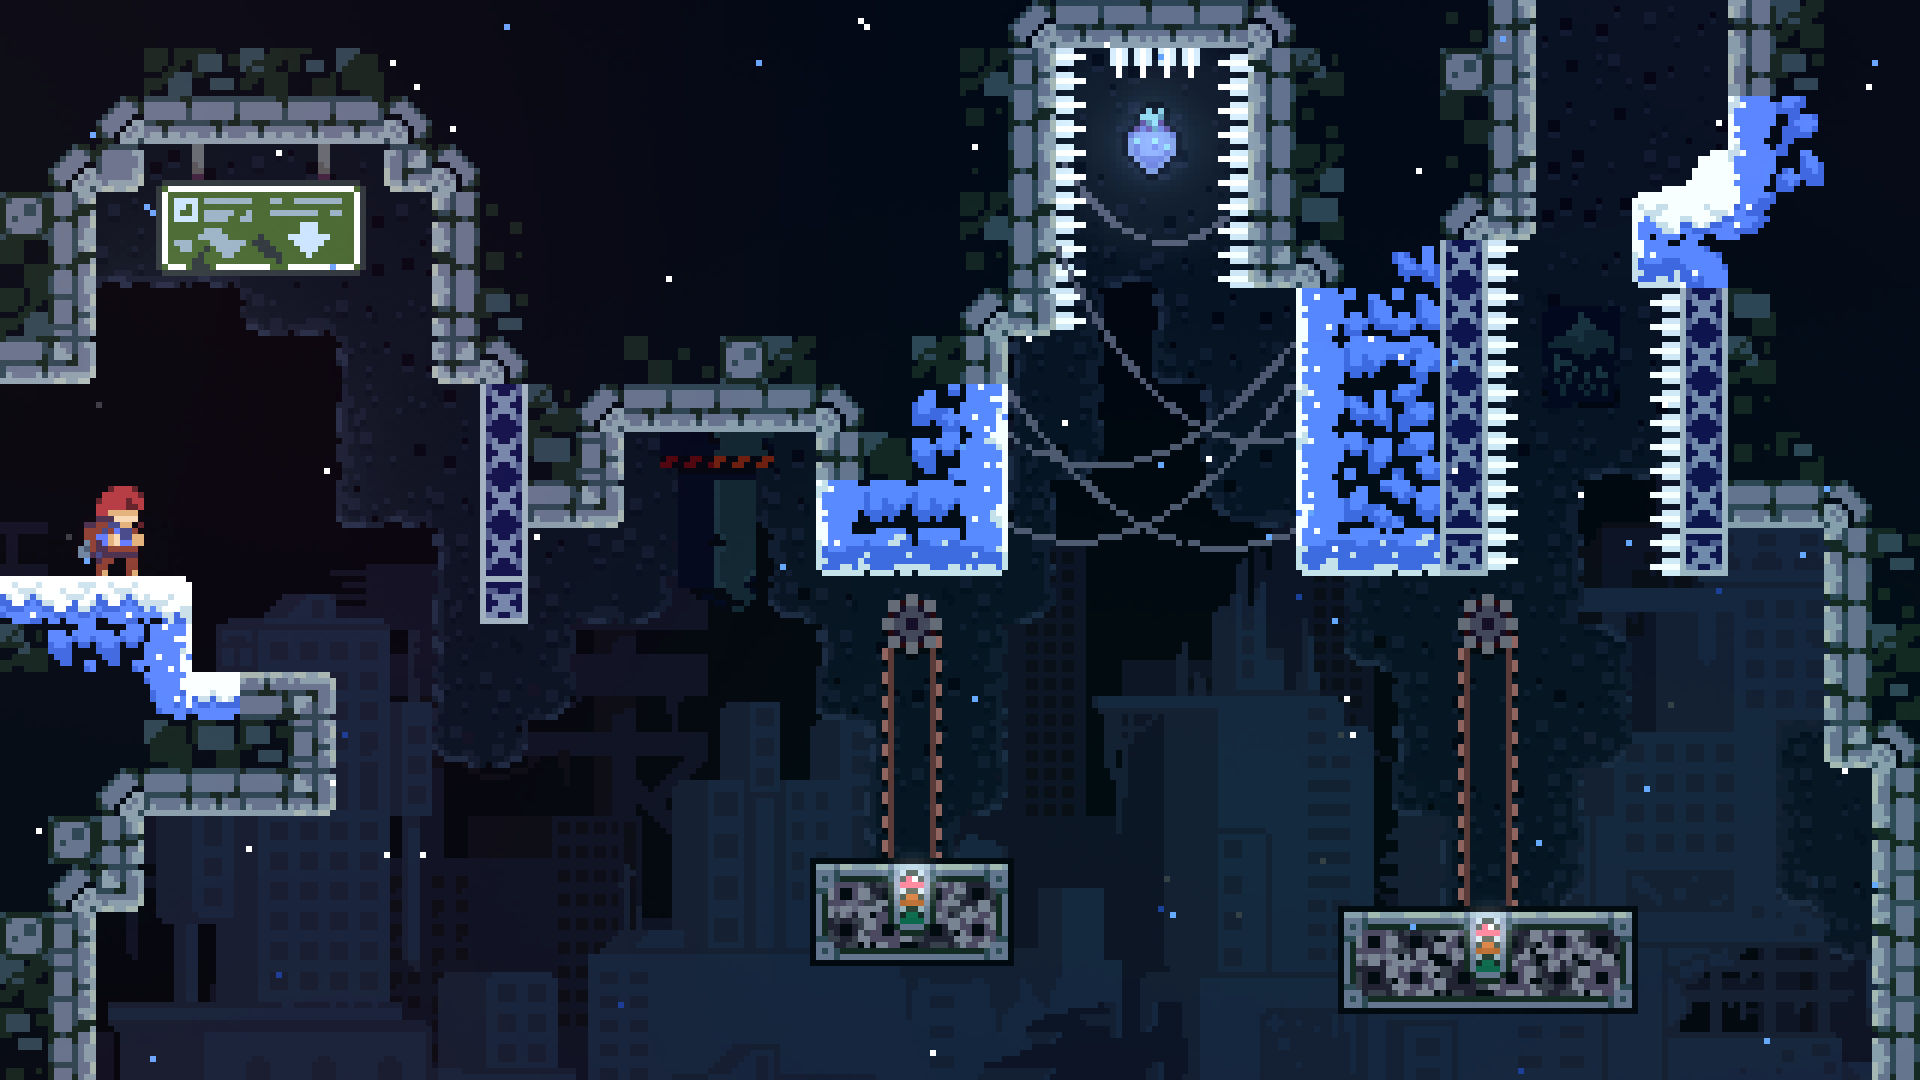
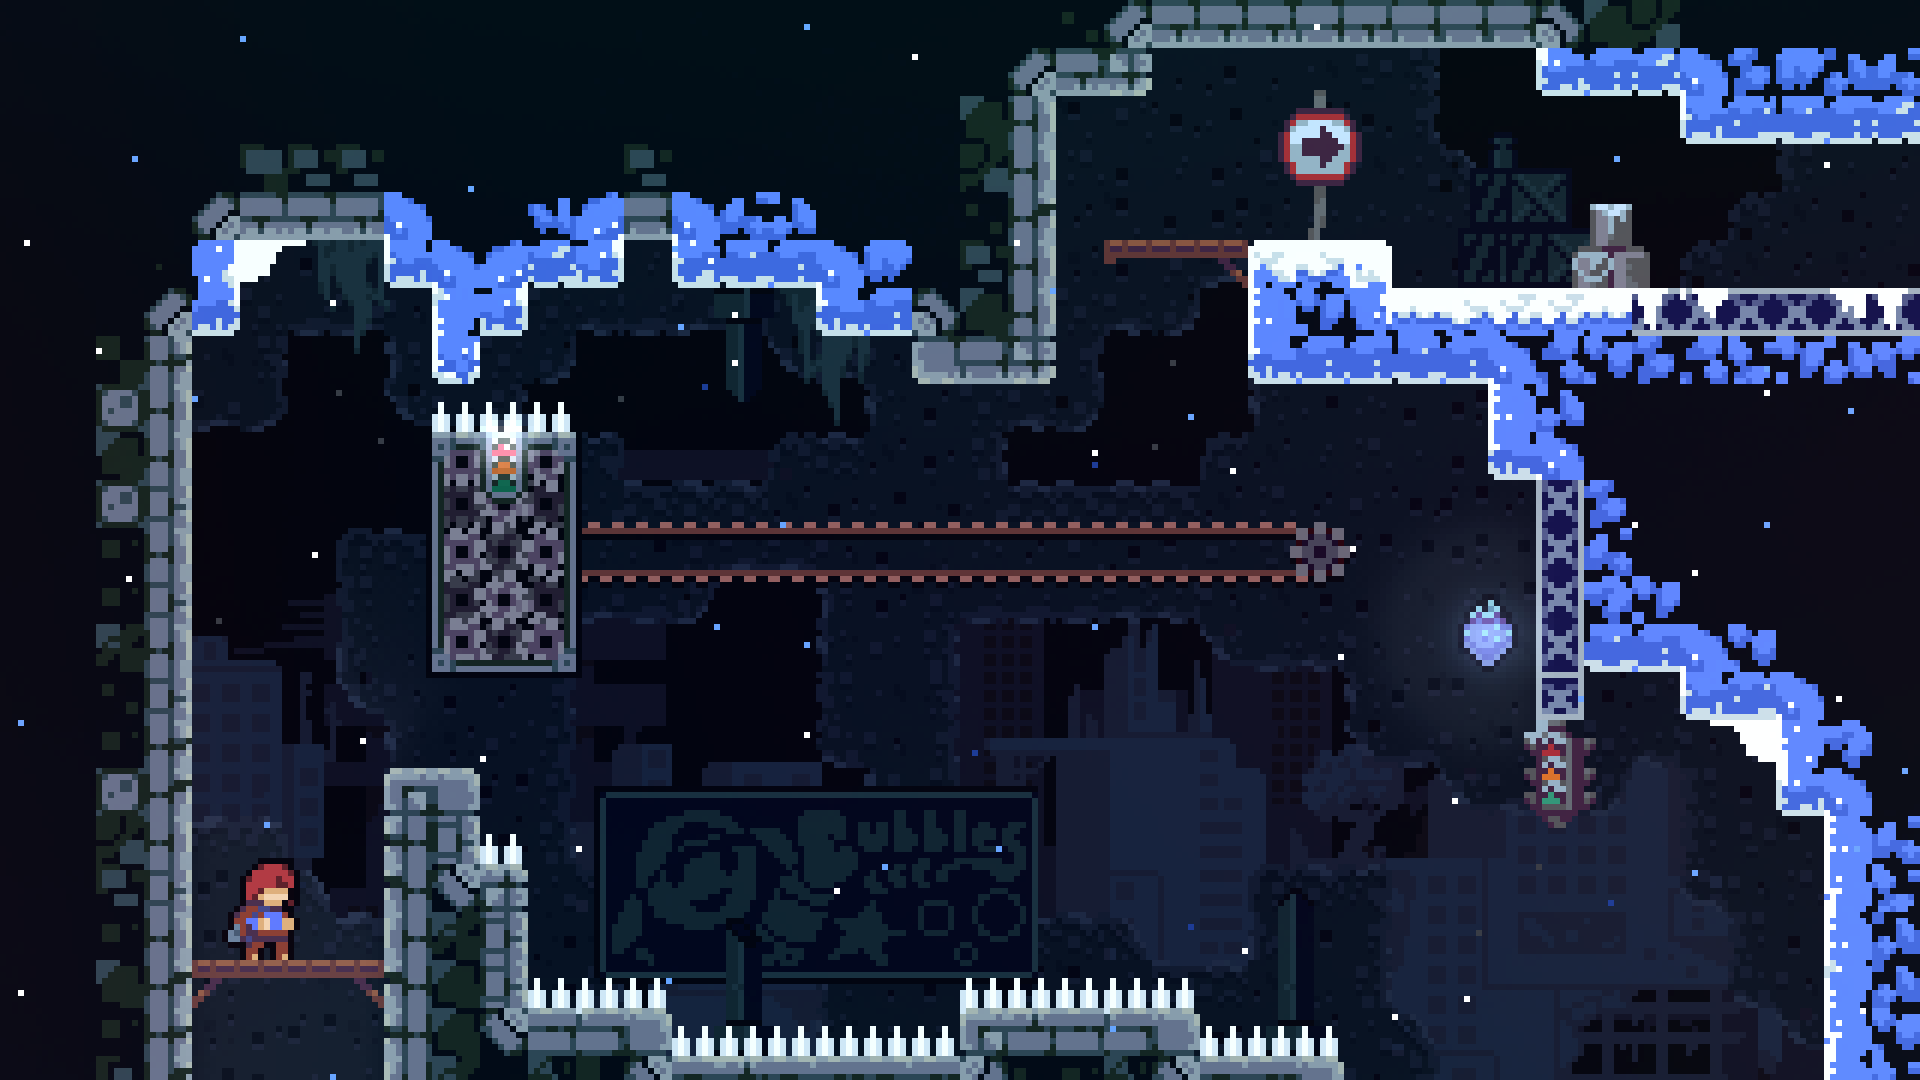
buttons can be used to change to the next room

diff --git a/src/Components/map.jsx b/src/Components/map.jsx
@@ -1,17 +1,26 @@
 import React, { useState } from "react"
+import exits from "../data/exits.json"
 
 const Map = () => {
     const [level, setLevel] = useState("FS")
     const [room, setRoom] = useState("1")
 
+    const move = (direction) => {
+        setRoom(exits[level][room][direction])
+    }
+
+    const isDisabled = (direction) => {
+        return (!exits[level][room].hasOwnProperty(direction))
+    }
+
     return (<div id="map">
-        <button className="up">&#8679;</button>
+        <button className="up" disabled={isDisabled("N")} onClick={() => move("N")}>&#8679;</button>
         <div id="map-middle">
-            <button className="left">&#8678;</button>
+            <button className="left" disabled={isDisabled("W")} onClick={() => move("W")}>&#8678;</button>
             <img className="roompic" src={`/Images/${level}${room}.png`} alt="First room of Forsaken City"></img>
-            <button className="right">&#8680;</button>
+            <button className="right" disabled={isDisabled("E")} onClick={() => move("E")}>&#8680;</button>
         </div>
-        <button className="down">&#8681;</button>
+        <button className="down" disabled={isDisabled("S")} onClick={() => move("S")}>&#8681;</button>
     </div>)
 }
 
